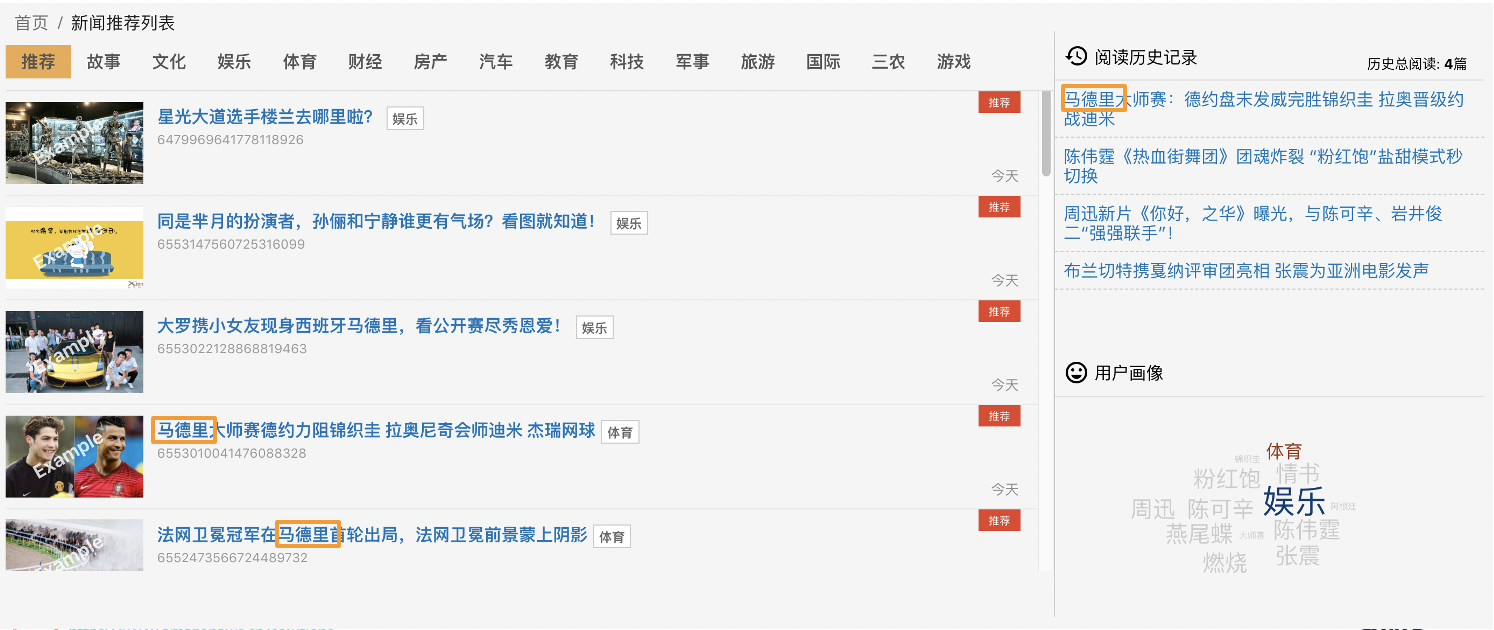
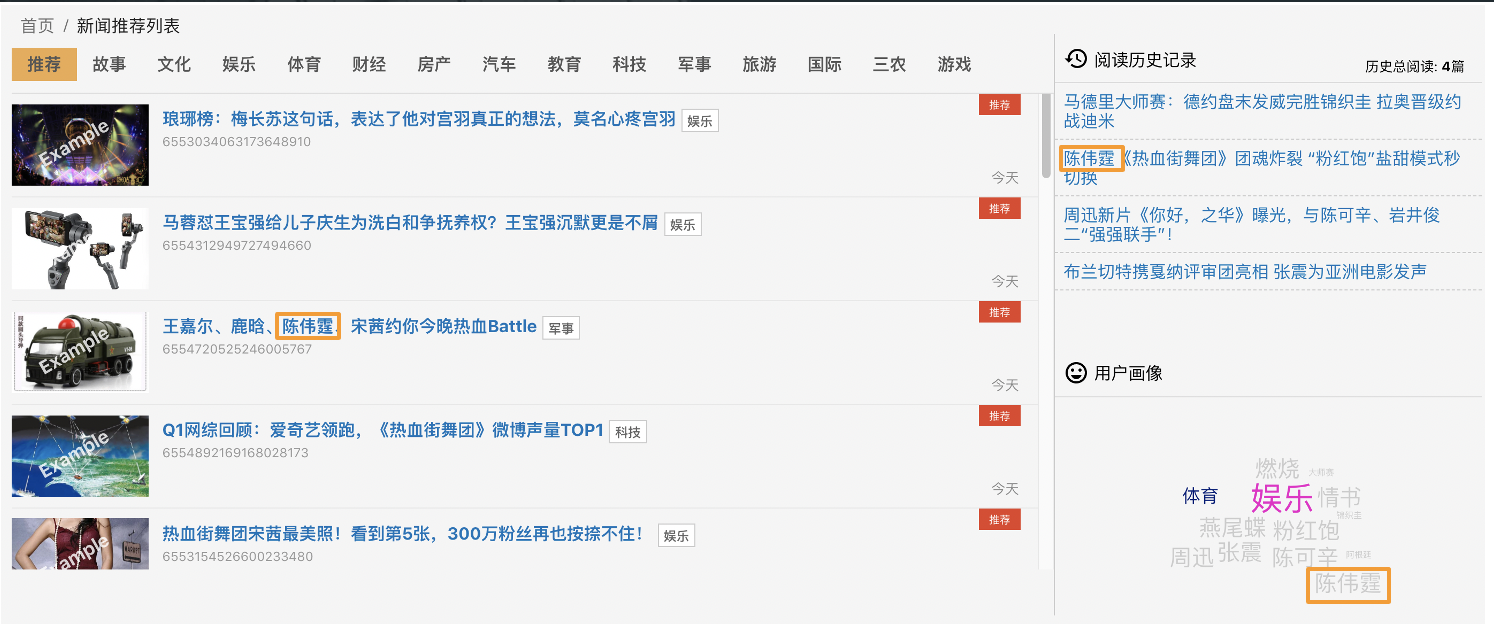
finish user experience

diff --git a/docs/experience/user/_index.en.md b/docs/experience/user/_index.en.md
@@ -50,6 +50,14 @@ The second part is generated from the similar contents of what you clicked. If y
 ![Recommend-type-1](/images/recommend-type-1.png)
 ![Recommend-type-2](/images/recommend-type-2.png)
 
+You will also notice that there are scores for the type of news you may like:
+
+![User-Portrait](/images/user-portrait.png)
+
+If you navigate the recommendating list, you will notice some results with disparity tag. This means the system will push some types of news that you never read to discover the possible interests:
+
+![Disparity](/images/disparity.png)
+
 
 
 
